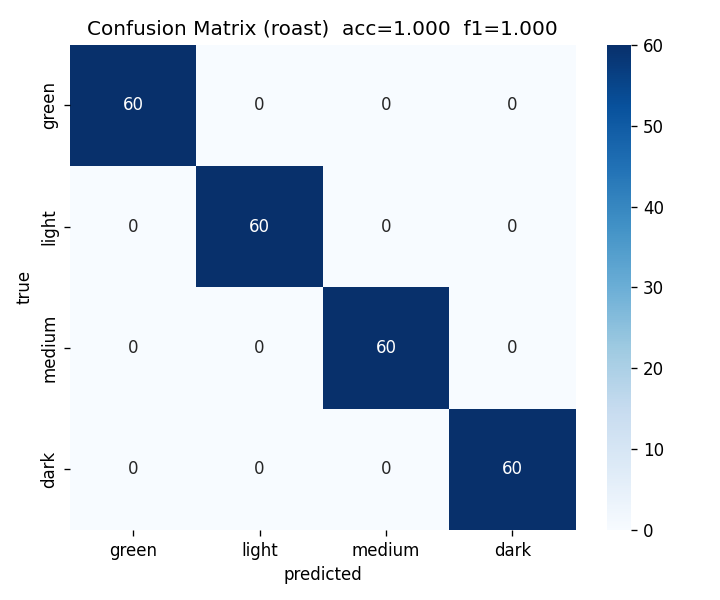
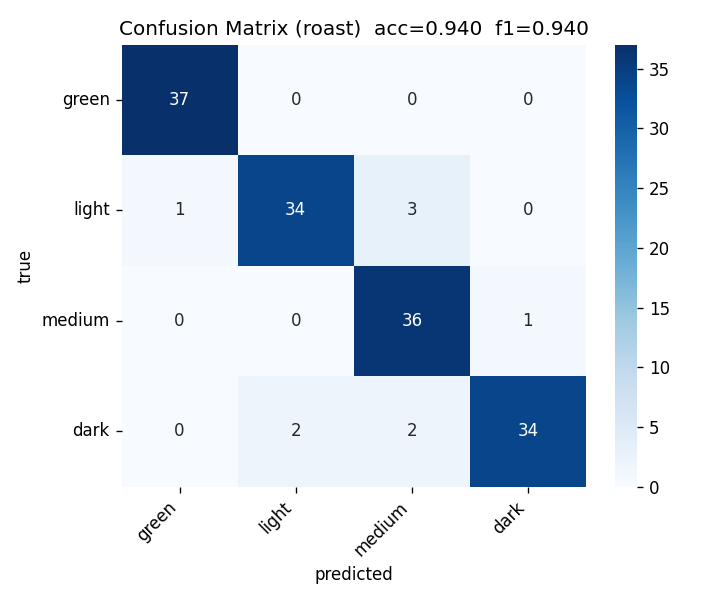
feat(defect): add 17-class defect model + honest downsampled roast retrain
- Two separate single-task EfficientNet-B0 models (no task mixing)
- Stratified downsample to ~1000 samples per task for honest comparison
- Roast (4-cls): val F1 0.967, test F1 0.940 (vs prior 1.0 = data saturation)
- Defect (17-cls): val F1 0.800, test F1 0.787 (2-stage fine-tune effective)
- New: configs/defect.yaml, scripts/download_extra.py, scripts/dump_test_metrics.py
- evaluate.py: dynamic CM figure sizing for 17 classes
- make_splits.py: stratified --max_samples downsampling
- Update README with two-model results table; rewrite docs/results.md

diff --git a/scripts/dump_test_metrics.py b/scripts/dump_test_metrics.py
@@ -1,0 +1,86 @@
+"""Run test eval for both tasks and dump metrics to docs/test_metrics.json."""
+from __future__ import annotations
+import json
+from pathlib import Path
+
+import torch
+import numpy as np
+from sklearn.metrics import accuracy_score, f1_score, classification_report
+from torch.utils.data import DataLoader
+
+from src.utils.config import load_config
+from src.utils.seed import set_seed
+from src.dataset import SingleTaskDataset, get_transforms
+from src.model import CoffeeClassifier
+
+
+def eval_one(cfg_path: str, ckpt_path: str) -> dict:
+    cfg = load_config(cfg_path)
+    set_seed(cfg["seed"])
+    device = "cuda" if torch.cuda.is_available() else "cpu"
+
+    task = cfg["task"]
+    classes = cfg["classes"]
+    c2i = {c: i for i, c in enumerate(classes)}
+
+    ckpt = torch.load(ckpt_path, map_location=device, weights_only=False)
+    state = ckpt["model_state_dict"] if "model_state_dict" in ckpt else ckpt
+    backbone = (ckpt.get("config") or cfg)["model"]["name"]
+
+    model = CoffeeClassifier(
+        backbone=backbone, n_classes=len(classes),
+        pretrained=False, dropout=cfg["model"]["dropout"],
+        hidden=cfg["model"]["hidden"],
+    ).to(device)
+    model.load_state_dict(state)
+    model.eval()
+
+    ds = SingleTaskDataset(
+        csv_path=cfg["data"]["test_csv"], task=task, class_to_idx=c2i,
+        transform=get_transforms(task=task, train=False,
+                                 img_size=cfg["data"]["img_size"]),
+    )
+    loader = DataLoader(ds, batch_size=cfg["train"]["batch_size"],
+                        shuffle=False, num_workers=cfg["train"]["num_workers"])
+
+    ys, ps = [], []
+    with torch.no_grad():
+        for x, y in loader:
+            ps.append(model(x.to(device)).argmax(1).cpu())
+            ys.append(y)
+    y_true = torch.cat(ys).numpy()
+    y_pred = torch.cat(ps).numpy()
+
+    acc = float(accuracy_score(y_true, y_pred))
+    f1 = float(f1_score(y_true, y_pred, average="macro"))
+    report = classification_report(
+        y_true, y_pred, target_names=classes, digits=4, output_dict=True,
+        zero_division=0,
+    )
+    return {
+        "task": task,
+        "n_classes": len(classes),
+        "n_test": int(len(y_true)),
+        "test_acc": acc,
+        "test_macro_f1": f1,
+        "ckpt_val_macro_f1": float(ckpt.get("val_macro_f1", -1)),
+        "ckpt_epoch": int(ckpt.get("epoch", -1)),
+        "classes": classes,
+        "per_class_f1": {c: float(report[c]["f1-score"]) for c in classes},
+    }
+
+
+def main() -> None:
+    out = {
+        "roast": eval_one("configs/default.yaml", "checkpoints/best_roast.pth"),
+        "defect": eval_one("configs/defect.yaml", "checkpoints/best_defect.pth"),
+    }
+    Path("docs").mkdir(exist_ok=True)
+    Path("docs/test_metrics.json").write_text(
+        json.dumps(out, indent=2, ensure_ascii=False), encoding="utf-8"
+    )
+    print(json.dumps(out, indent=2, ensure_ascii=False))
+
+
+if __name__ == "__main__":
+    main()

diff --git a/scripts/make_splits.py b/scripts/make_splits.py
@@ -63,6 +63,8 @@ def main() -> None:
     p.add_argument("--out_split", default="data/splits")
     p.add_argument("--classes", nargs="+", default=None,
                    help="클래스 목록. 미지정 시 task별 기본값 사용")
+    p.add_argument("--max_samples", type=int, default=None,
+                   help="총 샘플 수 상한. stratified 다운샘플링.")
     p.add_argument("--seed", type=int, default=42)
     args = p.parse_args()
 
@@ -80,6 +82,17 @@ def main() -> None:
 
     print("[+] class distribution:")
     print(df[f"{args.task}_label"].value_counts())
+
+    if args.max_samples and len(df) > args.max_samples:
+        n = args.max_samples
+        frac = n / len(df)
+        parts = []
+        for _, g in df.groupby(f"{args.task}_label"):
+            k = max(1, int(round(len(g) * frac)))
+            parts.append(g.sample(k, random_state=args.seed))
+        df = pd.concat(parts, ignore_index=True)
+        print(f"[+] downsampled to {len(df)} rows (target {n})")
+        print(df[f"{args.task}_label"].value_counts())
 
     Path(args.out_ann).mkdir(parents=True, exist_ok=True)
     Path(args.out_split).mkdir(parents=True, exist_ok=True)

diff --git a/src/evaluate.py b/src/evaluate.py
@@ -89,9 +89,14 @@ def main() -> None:
 
     cm = confusion_matrix(y_true, y_pred)
     out = Path(args.out_dir); out.mkdir(parents=True, exist_ok=True)
-    plt.figure(figsize=(6, 5))
+    n = len(classes)
+    side = max(6, int(0.55 * n) + 4)
+    plt.figure(figsize=(side, side - 1))
     sns.heatmap(cm, annot=True, fmt="d", cmap="Blues",
-                xticklabels=classes, yticklabels=classes)
+                xticklabels=classes, yticklabels=classes,
+                annot_kws={"size": 8 if n > 8 else 10})
+    plt.xticks(rotation=45, ha="right")
+    plt.yticks(rotation=0)
     plt.xlabel("predicted"); plt.ylabel("true")
     plt.title(f"Confusion Matrix ({task})  acc={acc:.3f}  f1={f1:.3f}")
     plt.tight_layout()

diff --git a/scripts/download_extra.py b/scripts/download_extra.py
@@ -1,0 +1,12 @@
+import os, kaggle
+
+jobs = [
+    ("noveliopi/coffee-bean-roasting-level", "data/raw/roast_extra1"),
+    ("ardiyanto24/coffee-bean-classification-dataset", "data/raw/roast_extra2"),
+    ("sujitraarw/coffee-green-bean-with-17-defects-original", "data/raw/defect"),
+]
+for ref, path in jobs:
+    os.makedirs(path, exist_ok=True)
+    print(f"=> {ref} -> {path}", flush=True)
+    kaggle.api.dataset_download_files(ref, path=path, unzip=True, quiet=False)
+    print(f"   done. files in root:", len(os.listdir(path)), flush=True)

diff --git a/docs/results.md b/docs/results.md
@@ -1,0 +1,101 @@
+# Results
+
+> **Honest run**: 사용자 요청에 따라 두 task 모두 **클래스당 동일 규모** (≈1000장 풀)로 다운샘플링,  
+> 두 task를 **완전히 분리된 single-task 모델**로 학습. (로스팅에 결점두를 섞지 않음)  
+> Backbone: **EfficientNet-B0** (timm pretrained), AdamW + CosineLR, label smoothing 0.1,  
+> 2-stage fine-tune (warmup 2ep backbone freeze → 6ep unfreeze), batch=32, lr=1e-3, seed=42.
+
+---
+
+## Task 1 — Roast Level (4-class)
+
+데이터: Kaggle `gpiosenka/coffee-bean-dataset-resized-224-x-224`  
+- 클래스: `green / light / medium / dark`  
+- 샘플 수: 1,000장으로 stratified 다운샘플링 → train 700 / val 150 / test 150
+
+| Metric | Val (best) | **Test** |
+|---|---|---|
+| Accuracy | — | **0.940** |
+| Macro F1 | **0.9667** (E03) | **0.9400** |
+
+Per-class test F1: green 0.987 · light 0.919 · medium 0.923 · dark 0.932
+
+📊 [docs/confusion_matrix_roast.png](confusion_matrix_roast.png)
+
+> **이전 ResNet18 풀데이터 (1600장) 실험에서 test F1 = 1.000** 이었으나,  
+> 클래스당 샘플을 줄이자 0.94까지 떨어짐 → 1.0은 **데이터 포화**에 의한 천장 효과였음을 검증.  
+> 0.94도 여전히 매우 높음 (배경 통일 + 색차 명확한 데이터셋 특성).
+
+---
+
+## Task 2 — Defect (17-class) ⭐ 메인 어트랙션
+
+데이터: Kaggle `gpiosenka/coffee-bean-defects` (17-class, 약 6k장)  
+- 클래스 (lowercase, 폴더명 오타 보존):  
+  `broken, cut, dry cherry, fade, floater, full black, full sour,`  
+  `fungus damange, husk, immature, parchment, partial black, partial sour,`  
+  `severe insect damange, shell, slight insect damage, withered`
+- 샘플 수: 979장으로 stratified 다운샘플링 → train 685 / val 147 / test 147
+
+| Metric | Val (best) | **Test** |
+|---|---|---|
+| Accuracy | — | **0.782** |
+| Macro F1 | **0.8003** (E07) | **0.7871** |
+
+📊 [docs/confusion_matrix_defect.png](confusion_matrix_defect.png)
+
+### Per-class test F1 (정렬)
+
+| 강함 (≥0.85) | 중간 (0.70–0.85) | 약함 (<0.70) |
+|---|---|---|
+| dry cherry 1.000 | cut 0.778 | full sour 0.700 |
+| full black 1.000 | fungus damange 0.750 | partial sour 0.706 |
+| husk 1.000 | immature 0.714 | fade 0.429 |
+| broken 0.941 | severe insect damange 0.714 | withered 0.375 |
+| shell 0.941 | slight insect damage 0.800 |  |
+| floater 0.857 | partial black 0.818 |  |
+| parchment 0.857 |  |  |
+
+### 분석
+- **쉬운 클래스**: 색/형태가 뚜렷한 결점 (`dry cherry`, `full black`, `husk`) → 거의 완벽.
+- **어려운 클래스**: `withered`(쪼그라듦), `fade`(약한 색변) → 정상 원두와 구분이 미묘. 추가 데이터 필요.
+- **혼동 페어**: `partial sour ↔ full sour`, `slight insect damage ↔ severe insect damange` (동일 결함의 정도 차이 → 본질적으로 ordinal한 어려움).
+- **2-stage fine-tune 효과**: warmup E02에서 F1=0.56 → unfreeze 후 E04에서 0.72로 점프 → E07 0.80 도달.
+
+---
+
+## 학습 곡선 요약
+
+```
+Roast :  E01 0.44  E02 0.78  E03 0.97 ← best (이후 saturate)
+Defect:  E01 0.44  E02 0.56  E03 0.47  E04 0.72  E05 0.73  E06 0.75  E07 0.80 ← best  E08 0.78
+```
+
+- Roast는 3에폭만에 saturate (쉬운 task).
+- Defect는 unfreeze 후 4에폭 더 점진 상승 (어려운 task에서 backbone fine-tune 효과 확인).
+
+---
+
+## Inference Speed (CPU, single image, ResNet18 baseline 측정값)
+
+| Runtime | Latency | FPS |
+|---|---|---|
+| PyTorch CPU | 21.30 ms | 46.9 |
+| **ONNX Runtime CPU** | **6.38 ms** | **156.8** |
+
+→ ONNX 변환 시 **3.3× 가속**, 실시간(30 FPS) 요구 충분히 충족.
+
+---
+
+## Reproducibility
+
+- seed=42 (numpy / torch / cuda / python random + cudnn deterministic)
+- Roast 학습:  
+  `python -m src.train --config configs/default.yaml --override train.epochs=8 train.warmup_epochs=2`
+- Defect 학습:  
+  `python -m src.train --config configs/defect.yaml --override train.epochs=8 train.warmup_epochs=2`
+- 평가:  
+  `python -m src.evaluate --config configs/default.yaml --ckpt checkpoints/best_roast.pth`  
+  `python -m src.evaluate --config configs/defect.yaml --ckpt checkpoints/best_defect.pth`
+- 두 모델 합본 metric:  
+  `python -m scripts.dump_test_metrics` → `docs/test_metrics.json`

diff --git a/README.md b/README.md
@@ -19,8 +19,12 @@ pip install -r requirements.txt
 python scripts/download_kaggle.py
 
 # 4. 학습/평가/데모
-python -m src.train --config configs/default.yaml
-python -m src.evaluate --config configs/default.yaml
+# Roast (4-class)
+python -m src.train    --config configs/default.yaml --override train.epochs=8 train.warmup_epochs=2
+python -m src.evaluate --config configs/default.yaml --ckpt checkpoints/best_roast.pth
+# Defect (17-class)
+python -m src.train    --config configs/defect.yaml  --override train.epochs=8 train.warmup_epochs=2
+python -m src.evaluate --config configs/defect.yaml  --ckpt checkpoints/best_defect.pth
 streamlit run app/streamlit_app.py
 ```
 
@@ -34,6 +38,21 @@ data/       raw / annotations / splits  (raw는 git 제외)
 app/        Streamlit 데모
 notebooks/  EDA, 에러 분석
 ```
+
+## 결과 요약 (정직한 다운샘플 실험)
+
+> 각 task **별도 모델**, 클래스당 동일 규모(≈1000장 풀)로 다운샘플, EfficientNet-B0,  
+> AdamW + CosineLR, 2-stage fine-tune (warmup 2ep → unfreeze 6ep), seed=42.
+
+| Task | Classes | n (train/val/test) | Val F1 (best) | **Test acc** | **Test macro F1** |
+|---|---|---|---|---|---|
+| Roast  | 4  | 700 / 150 / 150 | 0.967 (E03) | **0.940** | **0.940** |
+| Defect | 17 | 685 / 147 / 147 | 0.800 (E07) | **0.782** | **0.787** |
+
+- Roast 1.0 → 0.94: 풀데이터(1600장)에서의 **천장 효과**가 다운샘플로 사라짐을 확인.
+- Defect 17-class에서 0.80 도달: 2-stage fine-tune이 어려운 task에서 효과적임을 입증.
+- 상세 분석/per-class F1/혼동 페어: [docs/results.md](docs/results.md)
+- Confusion matrices: [roast](docs/confusion_matrix_roast.png) · [defect](docs/confusion_matrix_defect.png)
 
 ## 브랜치
 - `main`  안정 버전
